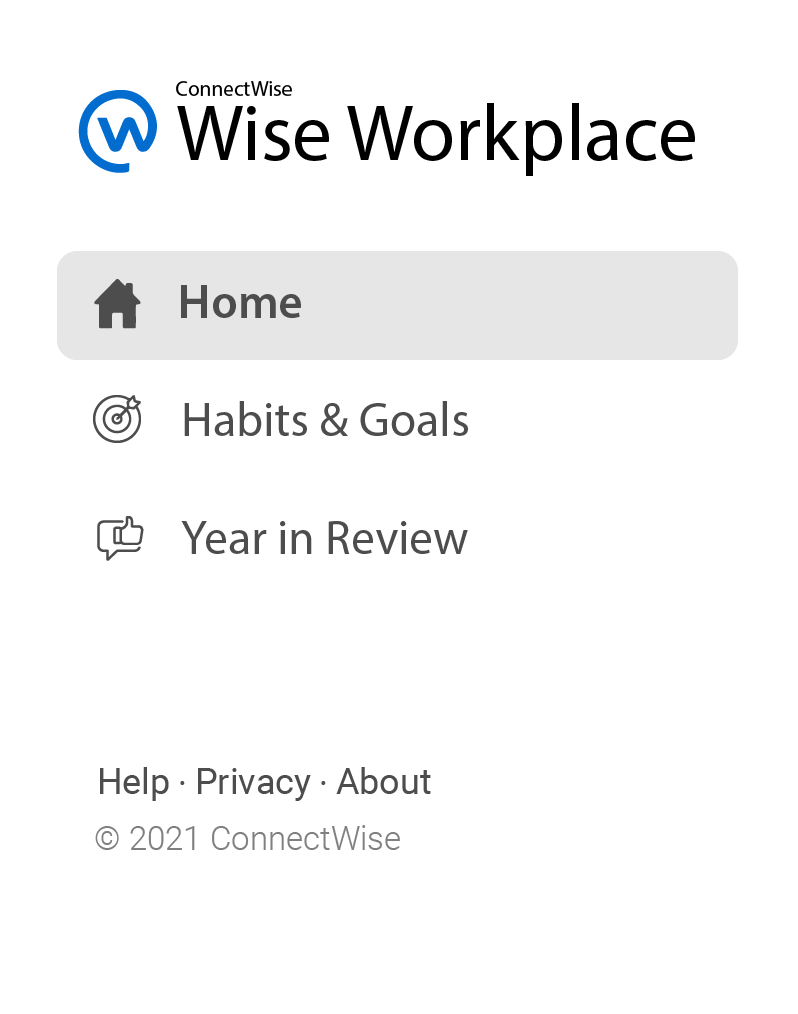
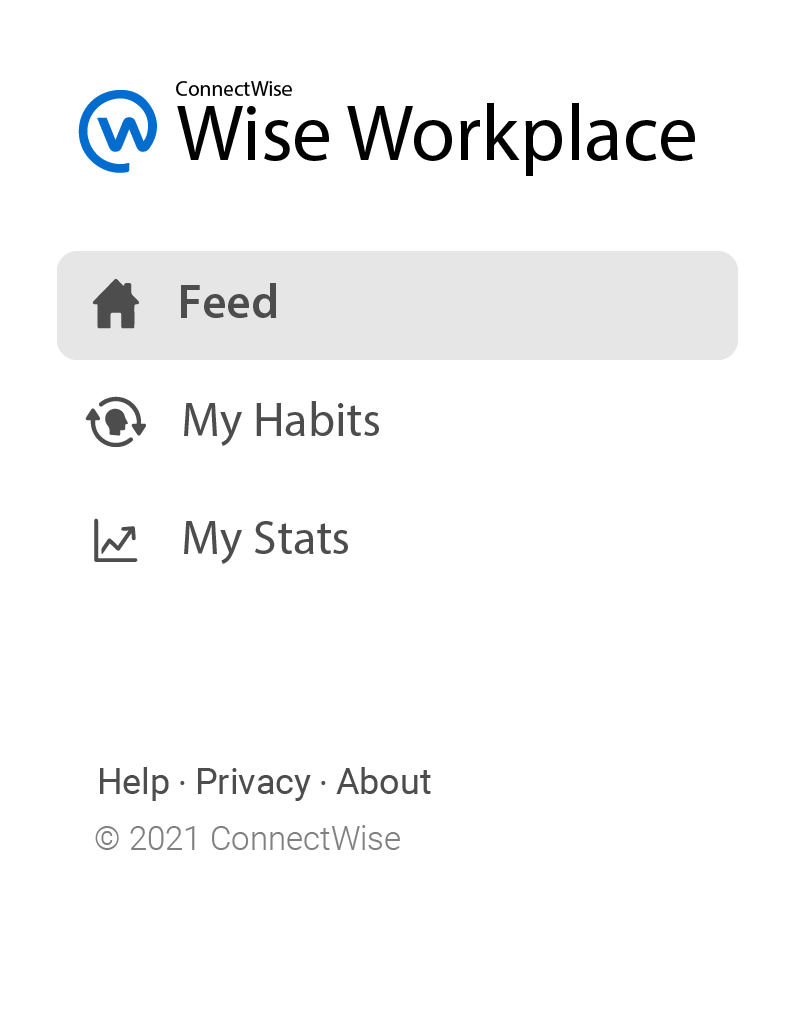
Updated picture base on Tony's feedback

diff --git a/wise-workplace/src/App.scss b/wise-workplace/src/App.scss
@@ -5,27 +5,26 @@
   margin-left: auto;
   position: relative;
 
-  .navigation{
-    background: url('./navi.png')  no-repeat;
+  .navigation {
+    background: url("./navi.png") no-repeat;
     background-size: cover;
     position: fixed;
     width: 266px;
     height: 338px;
   }
-  .feed{
-    background:  url('./feed.png')  no-repeat ;
+  .feed {
+    background: url("./feed.png") no-repeat;
     background-size: cover;
-margin-left: 250px;
+    margin-left: 250px;
     width: 585px;
     height: 4655px;
-  }  
-  .sidebar{
-    background: url('./sidebar.png')  no-repeat;
+  }
+  .sidebar {
+    background: url("./sidebar.png") no-repeat;
     background-size: cover;
     position: fixed;
-left: calc(50% + 272px);
+    left: calc(50% + 272px);
     width: 276px;
     height: 395px;
   }
 }
-
